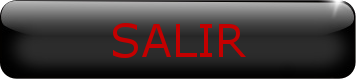
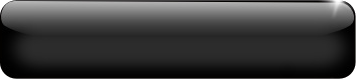
Add PauseUI for pause menu. Add ScreenUtil class with util methods for center actors over others. Add images for run button. Add method in BasicUI for create image button with or without text.

Changed region(s): [[0.3081, 0.2785, 0.7087, 0.7342]]

diff --git a/GalaxyWar/src/dev/jet/android/galaxywar/ui/EndUI.java b/GalaxyWar/src/dev/jet/android/galaxywar/ui/EndUI.java
@@ -1,13 +1,17 @@
 package dev.jet.android.galaxywar.ui;
 
+import com.badlogic.gdx.graphics.Color;
 import com.badlogic.gdx.scenes.scene2d.Actor;
 import com.badlogic.gdx.scenes.scene2d.ui.Image;
 import com.badlogic.gdx.scenes.scene2d.ui.ImageButton;
+import com.badlogic.gdx.scenes.scene2d.ui.Label;
 import com.badlogic.gdx.scenes.scene2d.ui.ImageButton.ImageButtonStyle;
+import com.badlogic.gdx.scenes.scene2d.ui.Label.LabelStyle;
 import com.badlogic.gdx.scenes.scene2d.utils.TextureRegionDrawable;
 
 import dev.jet.android.galaxywar.main.screens.GameScreen;
 import dev.jet.android.galaxywar.media.Media;
+import dev.jet.android.galaxywar.utils.ScreenUtil;
 import dev.jet.android.galaxywar.world.World;
 
 public class EndUI extends BasicUI {
@@ -16,8 +20,9 @@ public class EndUI extends BasicUI {
 	GameScreen screen;
 	
 	Image back;
-	ImageButton again;
-	ImageButton exit;
+	
+	Actor again;
+	Actor exit;
 		
 	public EndUI(World _world, Media _media, GameScreen _screen) {
 		super(_media);
@@ -25,21 +30,13 @@ public class EndUI extends BasicUI {
 		world = _world;
 		screen = _screen;
 		
-		ImageButtonStyle againStyle = new ImageButtonStyle();
-		againStyle.up = new TextureRegionDrawable(media.getPicture("end/againUp").getImage());
-		againStyle.down = new TextureRegionDrawable(media.getPicture("end/againDown").getImage());
-		
-		ImageButtonStyle exitStyle = new ImageButtonStyle();
-		exitStyle.up = new TextureRegionDrawable(media.getPicture("end/exitUp").getImage());
-		exitStyle.down = new TextureRegionDrawable(media.getPicture("end/exitDown").getImage());
-		
 		back = new Image(media.getPicture("end/back").getTexture());
-		again = new ImageButton(againStyle);
-		exit = new ImageButton(exitStyle);
+		again = BasicUI.createButton(media, "end/again", "Reintentar", "fonts/Comic Sans MS");
+		exit = BasicUI.createButton(media, "end/exit", "Salir", "fonts/Comic Sans MS");
 		
-		back.setPosition(getWidth()/2 - back.getWidth()/2, getHeight()/2 - back.getHeight()/2);
-		again.setPosition(getWidth()/2 - again.getWidth()/2, getHeight()/2 - again.getHeight()/2 + 60);
-		exit.setPosition(getWidth()/2 - again.getWidth()/2, getHeight()/2 - again.getHeight()/2 - 60);
+		ScreenUtil.centered(back, this, 0, 0);
+		ScreenUtil.centered(again, this, 0, 60);
+		ScreenUtil.centered(exit, this, 0, -60);
 		
 		addActor(back);
 		addActor(again);
@@ -54,7 +51,7 @@ public class EndUI extends BasicUI {
 	@Override
 	public void onTouchUp(float x, float y) {
 		
-		Actor a = hit(x, y, false);
+		Actor a = hit(x, y, true);
 		
 		if (a == again) {
 			world.reboot();

diff --git a/GalaxyWar/src/dev/jet/android/galaxywar/main/screens/GameScreen.java b/GalaxyWar/src/dev/jet/android/galaxywar/main/screens/GameScreen.java
@@ -5,13 +5,16 @@ import com.badlogic.gdx.Input.Keys;
 import dev.jet.android.galaxywar.main.GalaxyWar;
 import dev.jet.android.galaxywar.ui.EndUI;
 import dev.jet.android.galaxywar.ui.GameUI;
+import dev.jet.android.galaxywar.ui.PauseUI;
 import dev.jet.android.galaxywar.world.World;
 
 public class GameScreen extends AbstractScreen{
 	
 	World world;
+	
 	GameUI gui;
 	EndUI eui;
+	PauseUI pui;
 	
 	public GameScreen (GalaxyWar _game) {
 		super(_game);
@@ -47,6 +50,9 @@ public class GameScreen extends AbstractScreen{
 		media.loadSinglePicture("end/exitUp.png");
 		media.loadSinglePicture("end/exitDown.png");
 		
+		media.loadSinglePicture("pause/runUp.png");
+		media.loadSinglePicture("pause/runDown.png");
+		
 		media.loadSinglePicture("shieldbar/edge.png");
 		media.loadSinglePicture("shieldbar/shield.png");
 		
@@ -61,9 +67,14 @@ public class GameScreen extends AbstractScreen{
 		world = new World(media);
 		gui = new GameUI(world, media, this);
 		eui = new EndUI(world, media, this);
+		pui = new PauseUI(world, media, this);
 		
 		stage.addActor(world);
 		stage.addActor(gui);	
+	}
+	
+	public void showPause() {
+		stage.addActor(pui);
 	}
 	
 	public void showEnd() {
@@ -78,8 +89,6 @@ public class GameScreen extends AbstractScreen{
 		stage.addActor(world);
 		stage.addActor(gui);
 		
-		System.out.println("omfg");
-		
 	}
 	
 	@Override
@@ -87,21 +96,16 @@ public class GameScreen extends AbstractScreen{
 		
 		if (key == Keys.BACK) {
 			
-			System.out.println("salida");
+			if (world.getState() == World.RUN){
+				world.pause();
+				showPause();
 			
-			System.exit(0);
+			} else if (world.getState() == World.PAUSE) {
+				world.run();
+				showGame();
+			}
 		}
 		
 		return true;
-	}
-	
-	@Override
-	public void hide() {
-		
-	}
-	
-	@Override
-	public void dispose() {
-		
 	}
 }

diff --git a/GalaxyWar/src/dev/jet/android/galaxywar/ui/BasicUI.java b/GalaxyWar/src/dev/jet/android/galaxywar/ui/BasicUI.java
@@ -1,8 +1,15 @@
 package dev.jet.android.galaxywar.ui;
 
+import com.badlogic.gdx.scenes.scene2d.Actor;
 import com.badlogic.gdx.scenes.scene2d.Group;
 import com.badlogic.gdx.scenes.scene2d.InputEvent;
 import com.badlogic.gdx.scenes.scene2d.InputListener;
+import com.badlogic.gdx.scenes.scene2d.Touchable;
+import com.badlogic.gdx.scenes.scene2d.ui.ImageButton;
+import com.badlogic.gdx.scenes.scene2d.ui.ImageButton.ImageButtonStyle;
+import com.badlogic.gdx.scenes.scene2d.ui.ImageTextButton;
+import com.badlogic.gdx.scenes.scene2d.ui.ImageTextButton.ImageTextButtonStyle;
+import com.badlogic.gdx.scenes.scene2d.utils.TextureRegionDrawable;
 
 import dev.jet.android.galaxywar.media.Media;
 
@@ -21,6 +28,38 @@ public abstract class BasicUI extends Group {
 	
 	public abstract void onTouchDown(float x, float y);
 	public abstract void onTouchUp(float x, float y);
+	
+	public static Actor createButton(Media media, String name, String text, String font) {
+		
+		Actor button = null;
+		
+		if (text.equals("")){
+			ImageButtonStyle ibs = new ImageButtonStyle();
+			
+			ibs.up = new TextureRegionDrawable(media.getPicture(name+"Up").getImage());
+			ibs.down = new TextureRegionDrawable(media.getPicture(name+"Down").getImage());
+			
+			button = new ImageButton(ibs);
+		
+		} else {
+			
+			ImageTextButtonStyle itbs = new ImageTextButtonStyle();
+			
+			itbs.up = new TextureRegionDrawable(media.getPicture(name+"Up").getImage());
+			itbs.down = new TextureRegionDrawable(media.getPicture(name+"Down").getImage());
+			itbs.font = media.getFont(font);
+			
+			ImageTextButton aux = new ImageTextButton(text, itbs);
+			
+			aux.getLabel().setTouchable(Touchable.disabled);
+			
+			button = aux;
+			
+		}
+		
+		return button;
+		
+	}
 	
 	class BasicUIListener extends InputListener {
 		

diff --git a/GalaxyWar/src/dev/jet/android/galaxywar/ui/GameUI.java b/GalaxyWar/src/dev/jet/android/galaxywar/ui/GameUI.java
@@ -34,23 +34,11 @@ public class GameUI extends BasicUI {
 		world = _world;
 		screen = _screen;
 		
-		ImageButtonStyle bDirStyle = new ImageButtonStyle();
-		bDirStyle.up = new TextureRegionDrawable(media.getPicture("bArrowUp").getImage());
-		bDirStyle.down = new TextureRegionDrawable(media.getPicture("bArrowDown").getImage());
+		bRight = (ImageButton)BasicUI.createButton(media, "bArrow", "", "");
+		bLeft = (ImageButton)BasicUI.createButton(media, "bArrow", "", "");
 		
-		ImageButtonStyle bMissileStyle = new ImageButtonStyle();
-		bMissileStyle.up = new TextureRegionDrawable(media.getPicture("bMissileUp").getImage());
-		bMissileStyle.down = new TextureRegionDrawable(media.getPicture("bMissileDown").getImage());
-		
-		ImageButtonStyle bSpeedStyle = new ImageButtonStyle();
-		bSpeedStyle.up = new TextureRegionDrawable(media.getPicture("bSpeedUp").getImage());
-		bSpeedStyle.down = new TextureRegionDrawable(media.getPicture("bSpeedDown").getImage());
-		
-		bRight = new ImageButton(bDirStyle);
-		bLeft = new ImageButton(bDirStyle);
-		
-		bMissile = new ImageButton(bMissileStyle);
-		bSpeed = new ImageButton(bSpeedStyle);
+		bMissile = (ImageButton)BasicUI.createButton(media, "bMissile", "", "");
+		bSpeed = (ImageButton)BasicUI.createButton(media, "bSpeed", "", "");
 		
 		mBar = new MissileBar(media);
 		sBar = new ShieldBar(media);
@@ -81,6 +69,10 @@ public class GameUI extends BasicUI {
 	
 	@Override
 	public void act(float delta) {
+		
+		if (world.getState() == World.PAUSE) {
+			return;
+		}
 		
 		if (world.getState() == World.END) {
 			screen.showEnd();

diff --git a/GalaxyWar/src/dev/jet/android/galaxywar/world/World.java b/GalaxyWar/src/dev/jet/android/galaxywar/world/World.java
@@ -1,9 +1,6 @@
 package dev.jet.android.galaxywar.world;
 
-import com.badlogic.gdx.Gdx;
 import com.badlogic.gdx.graphics.Color;
-import com.badlogic.gdx.graphics.g2d.BitmapFont;
-import com.badlogic.gdx.graphics.g2d.SpriteBatch;
 import com.badlogic.gdx.math.Vector2;
 import com.badlogic.gdx.scenes.scene2d.Group;
 import com.badlogic.gdx.scenes.scene2d.ui.Label;
@@ -70,7 +67,7 @@ public class World extends Group {
 		back = new Background();
 		back.create(this, media.getPicture("space"));
 		
-		message = new Label("Version Beta 1.0", new LabelStyle(media.getFont("fonts/Comic Sans MS"), 
+		message = new Label("Version Beta 1.0 - Eve One", new LabelStyle(media.getFont("fonts/Comic Sans MS"), 
 				new Color(1,1,1,1)));
 		
 		message.setPosition(300, getHeight()-30);
@@ -90,7 +87,9 @@ public class World extends Group {
 	@Override
 	public void act(float delta) {
 		
-		super.act(delta);
+		if (state != PAUSE) {
+			super.act(delta);
+		}
 		
 		if (state==RUN && ship.getLife() < 0) {
 			state = STOP;
@@ -112,6 +111,14 @@ public class World extends Group {
 		offsetY = getHeight()/2 - ship.getY();
 	}
 
+	public void pause() {
+		state = PAUSE;
+	}
+	
+	public void run() {
+		state = RUN;
+	}
+	
 	public void reboot() {
 		
 		ship.reboot();
@@ -122,7 +129,7 @@ public class World extends Group {
 		addActor(ship);
 		addActor(shield);
 		
-		state = RUN;
+		run();
 	}
 	
 	public void explosion(Entity e, Entity a) {

diff --git a/GalaxyWar/src/dev/jet/android/galaxywar/ui/PauseUI.java b/GalaxyWar/src/dev/jet/android/galaxywar/ui/PauseUI.java
@@ -1,0 +1,42 @@
+package dev.jet.android.galaxywar.ui;
+
+import com.badlogic.gdx.scenes.scene2d.Actor;
+
+import dev.jet.android.galaxywar.main.screens.GameScreen;
+import dev.jet.android.galaxywar.media.Media;
+import dev.jet.android.galaxywar.utils.ScreenUtil;
+import dev.jet.android.galaxywar.world.World;
+
+public class PauseUI extends EndUI {
+	
+	Actor run;
+	
+	public PauseUI(World _world, Media _media, GameScreen _screen) {
+		super(_world, _media, _screen);
+				
+		run = BasicUI.createButton(media, "pause/run", "Volver al Juego", "fonts/Comic Sans MS");
+		
+		ScreenUtil.centered(run, this, 0, 100);
+		ScreenUtil.centered(again, this, 0, 0);
+		ScreenUtil.centered(exit, this, 0, -100);
+		
+		addActor(run);
+	}
+	
+	@Override
+	public void onTouchUp(float x, float y) {
+		super.onTouchUp(x, y);
+		
+		Actor a = hit(x, y, true);
+		
+		System.out.println(a);
+		
+		if (a == run){
+			
+			world.run();
+			screen.showGame();
+		} 
+		
+	}
+	
+}

diff --git a/GalaxyWar/src/dev/jet/android/galaxywar/utils/ScreenUtil.java b/GalaxyWar/src/dev/jet/android/galaxywar/utils/ScreenUtil.java
@@ -1,0 +1,12 @@
+package dev.jet.android.galaxywar.utils;
+
+import com.badlogic.gdx.scenes.scene2d.Actor;
+
+public class ScreenUtil {
+
+	public static void centered (Actor child, Actor parent, float dx, float dy) {
+		
+		child.setPosition(parent.getX() + parent.getWidth()/2 - child.getWidth()/2 + dx, 
+				parent.getY() + parent.getHeight()/2 - child.getHeight()/2 + dy);
+	}
+}

diff --git a/GalaxyWar/src/dev/jet/android/galaxywar/utils/GeomUtil.java b/GalaxyWar/src/dev/jet/android/galaxywar/utils/GeomUtil.java
@@ -31,5 +31,4 @@ public class GeomUtil {
 		
 		return sides;
 	}
-	
 }
